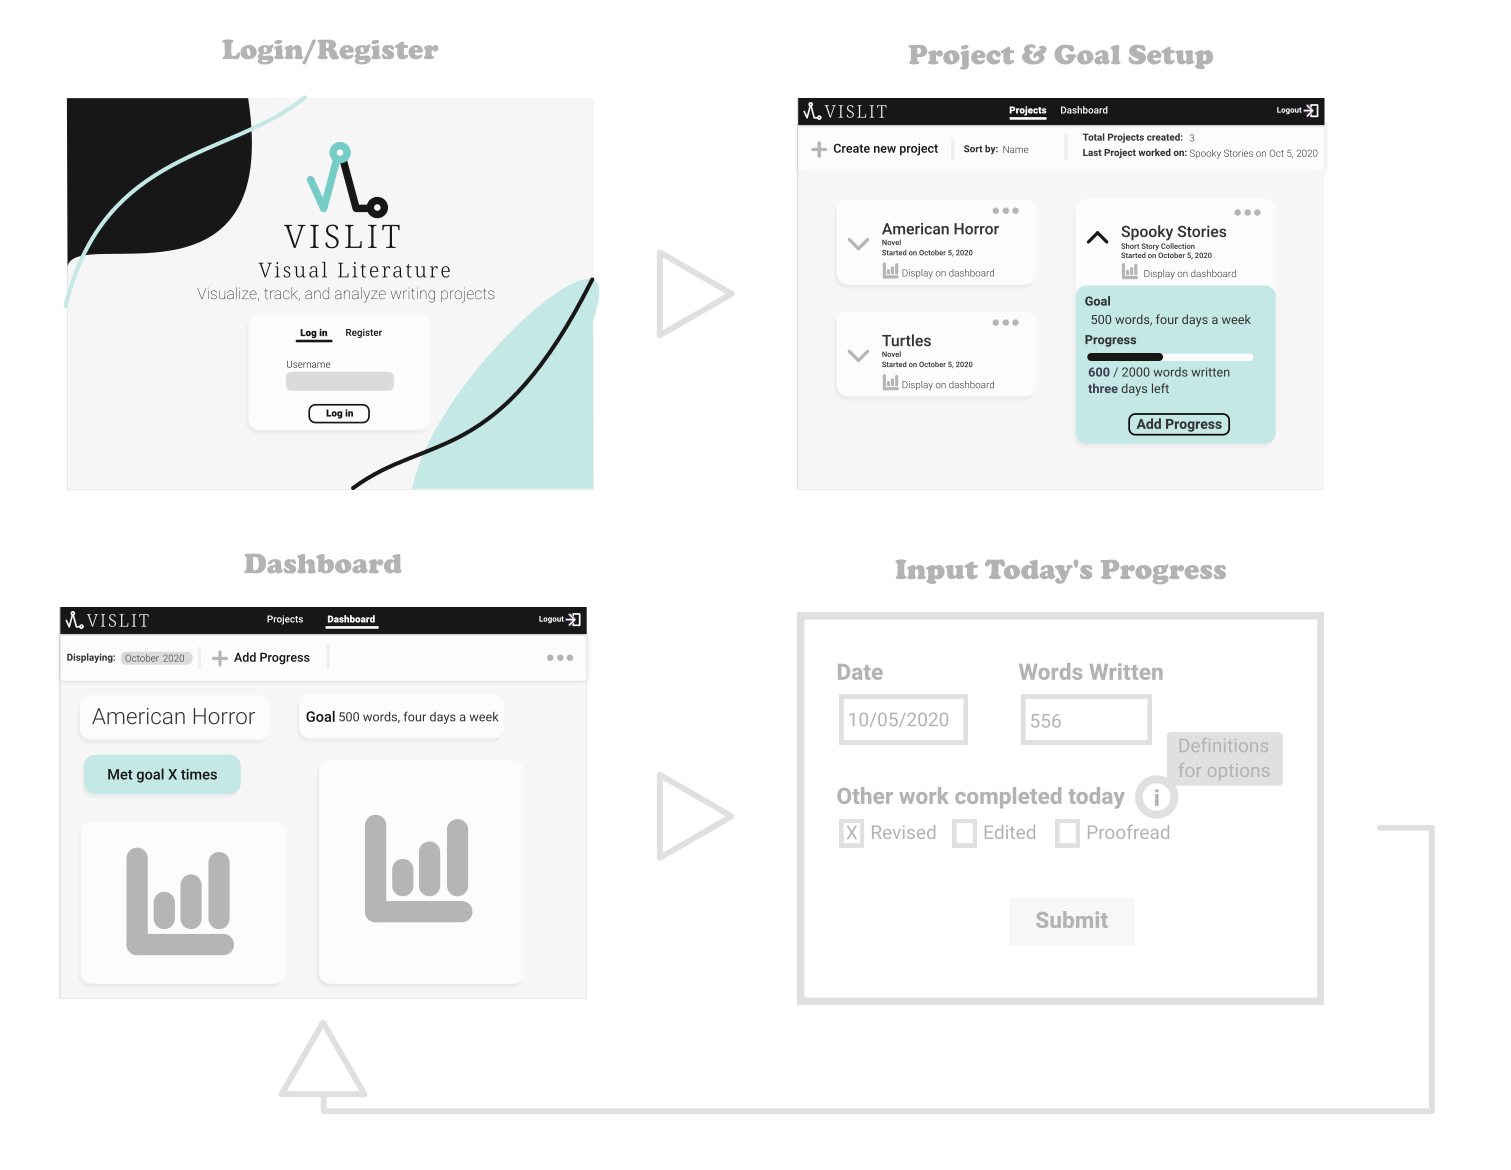
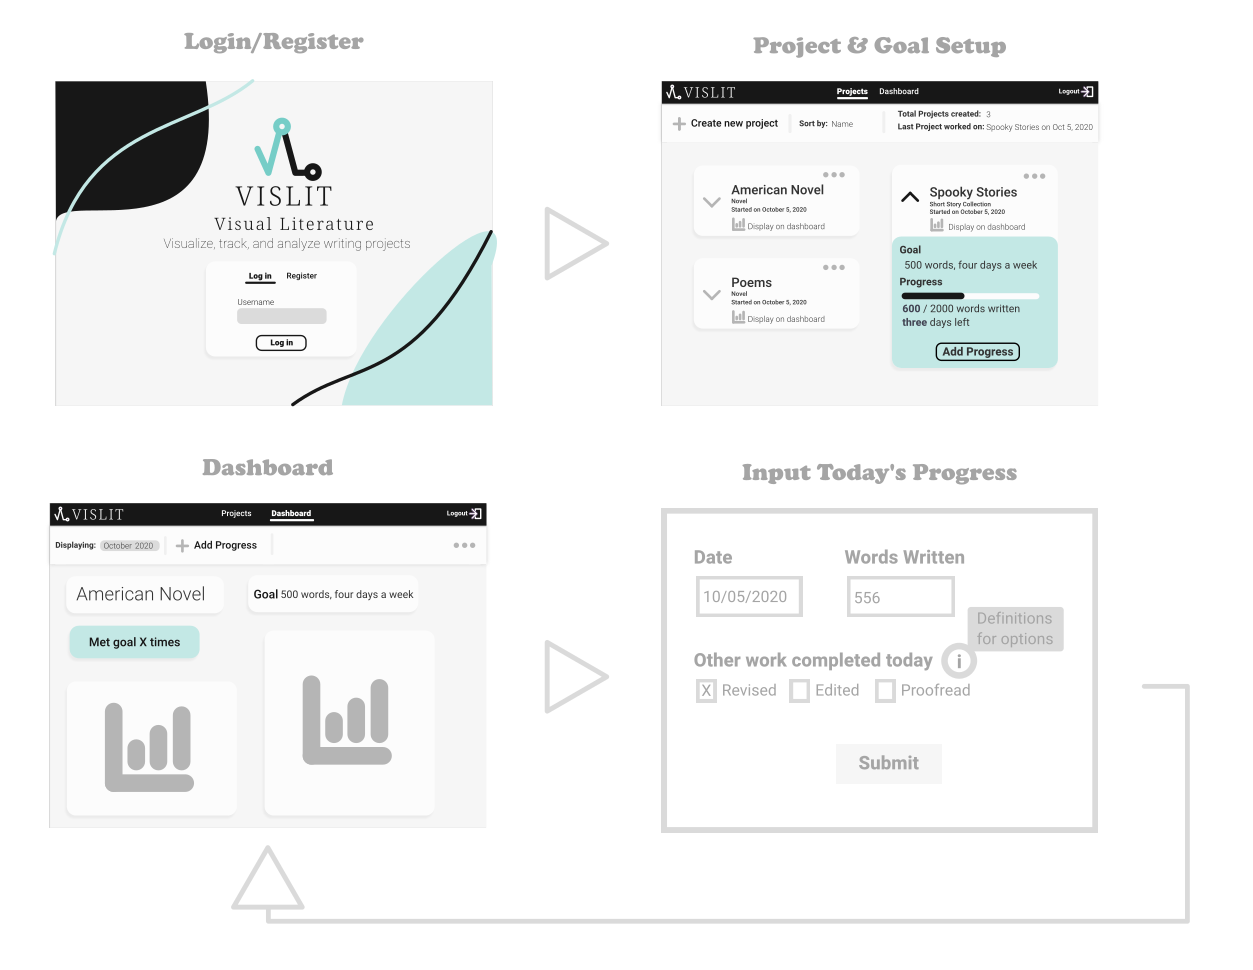
lowered image size

diff --git a/README.md b/README.md
@@ -70,15 +70,15 @@ GIF
 ## Entity Relationship Diagram
 
 ## Wireframe & Mockup
-### Initial wireframe <br>
+### Initial wireframe
 ![Wireframe](/readme-assets/readme_wireframe.png) <br>
-Mockup <br>
+### Mockup
 ![Mockup](/readme-assets/readme_mockup.png)
 
 ### Credits & Acknowledgements
 Logo design and project name - Shannon Swenton <br>
 Logo and icons designed with - [Inkscape](https://inkscape.org/) <br>
-Received help on the stacked bar charts from [Jamie Calder's codepen](https://codepen.io/jamiecalder/pen/NrROeB?editors=0010)
+Received help on the stacked bar charts from [Jamie Calder's codepen](https://codepen.io/jamiecalder/pen/NrROeB?editors=0010) <br>
 Readme design - [Art of README](https://github.com/noffle/art-of-readme#readme) and [Standard Readme](https://github.com/RichardLitt/standard-readme)
 
 ## License
